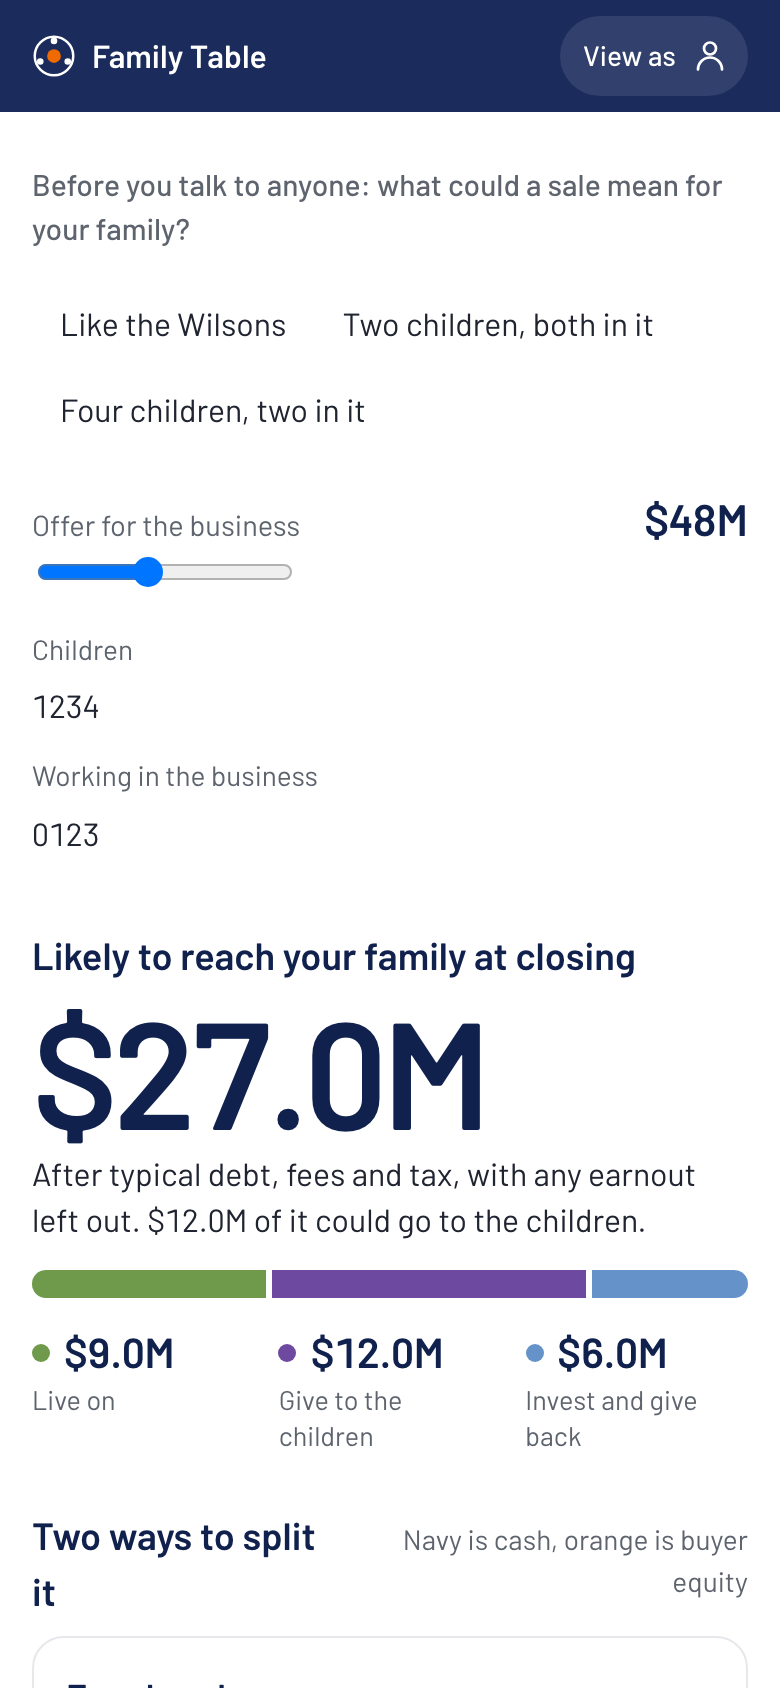
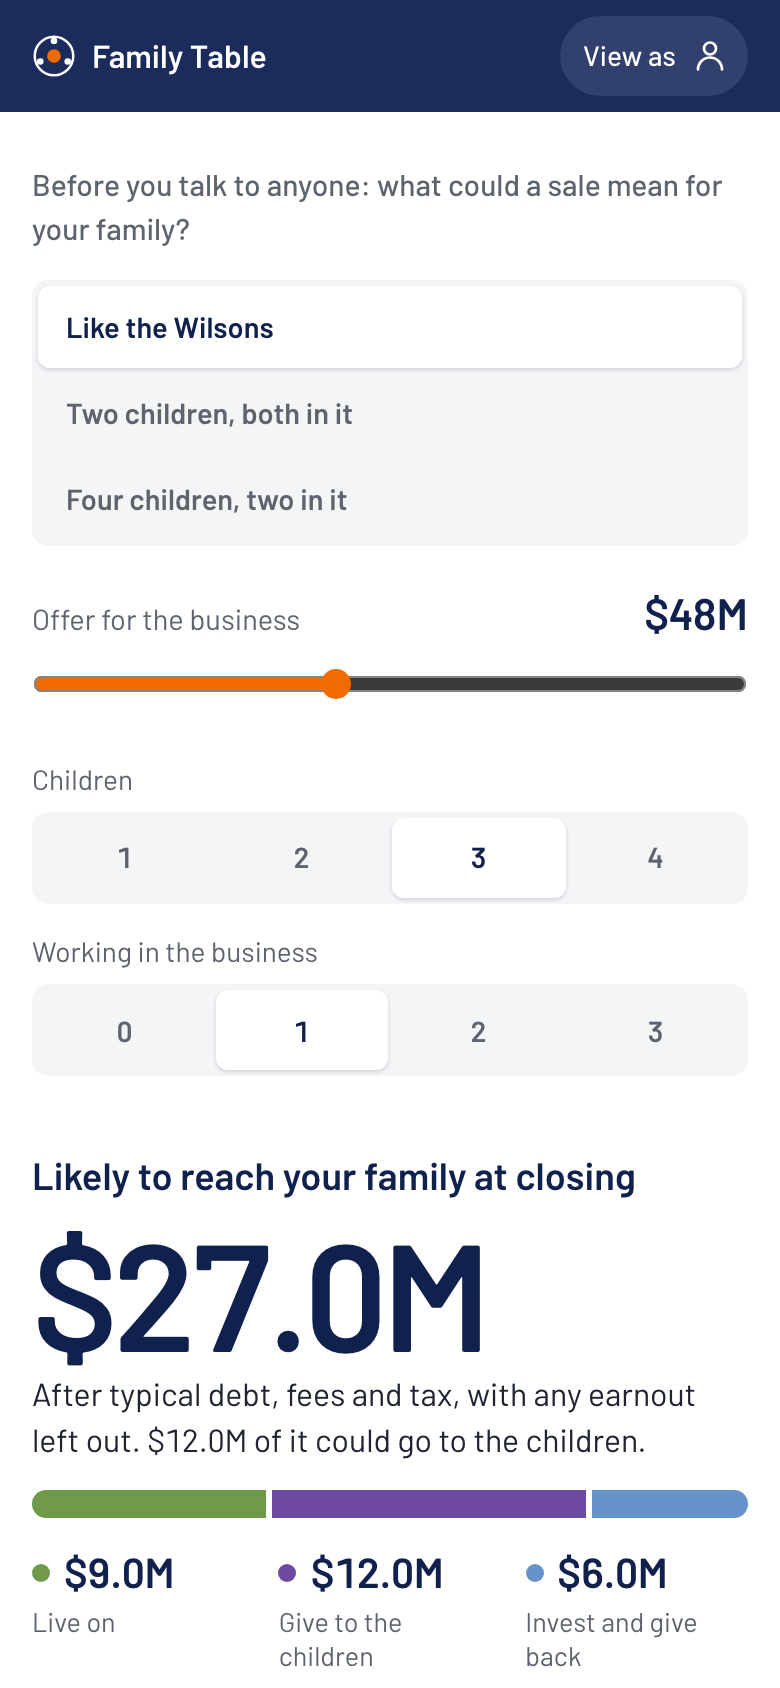
Slides: add preview, meeting guide and end-state slides; family slide shows the decision tree
Also fix presenter mode clipping on short screens.

diff --git a/slides/claude_deck/slides/family.html b/slides/claude_deck/slides/family.html
@@ -1,31 +1,32 @@
-<section id="family" data-transition="fade" style="background:#F5F6F8;color:#10214D;font-family:'Barlow', Arial, sans-serif;padding:112px 128px 160px;display:flex;flex-direction:column;gap:32px">
+<section id="family" data-transition="fade" style="background:#F5F6F8;color:#10214D;font-family:'Barlow', Arial, sans-serif;padding:104px 128px 160px;display:flex;flex-direction:column;gap:32px">
 <div style="display:flex;flex-direction:column;gap:12px">
 <p style="font-size:28px;font-weight:600;color:#B84F00">AI client and family experience</p>
-<h2 style="font-size:48px;font-weight:400;line-height:1.15;color:#10214D">Each person sees their own number, votes in private and asks Alex</h2>
+<h2 style="font-size:48px;font-weight:400;line-height:1.15;color:#10214D">Each person sees their own number, votes in private, then firms up the plan</h2>
 </div>
-<div style="display:flex;flex-direction:row;gap:64px;align-items:center">
-<div style="display:flex;flex-direction:row;gap:28px">
-<img src="/_blob/bb6ce9bce7e651bd16badfc4b975f215" alt="Sam's phone: his share, $4.25M, and three split options with every child's bar; his private vote is Balanced" style="width:262px;height:568px;object-fit:cover;border:8px solid #0B1533;border-radius:28px">
-<img src="/_blob/3bb084389be7f5aecbfa94e9515c5996" alt="Claire's phone: private check-in with detected themes and a switch to share each answer with Alex" style="width:262px;height:568px;object-fit:cover;border:8px solid #0B1533;border-radius:28px">
+<div style="display:flex;flex-direction:row;gap:48px;align-items:center">
+<div style="display:flex;flex-direction:row;gap:20px">
+<img src="/_blob/3bb084389be7f5aecbfa94e9515c5996" alt="Claire's private check-in: detected themes and a switch to share each answer with Alex" style="width:236px;height:512px;object-fit:cover;object-position:top;border:8px solid #0B1533;border-radius:28px">
+<img src="/_blob/bb6ce9bce7e651bd16badfc4b975f215" alt="Sam's vote: his share, $4.25M, under three split options with every child's bar; his private vote is Balanced" style="width:236px;height:512px;object-fit:cover;object-position:top;border:8px solid #0B1533;border-radius:28px">
+<img src="/_blob/c0961d67e258497c5b7696f8a09d1357" alt="Sam's decision tree: three choices narrow 12 possible plans to 1" style="width:236px;height:512px;object-fit:cover;object-position:top;border:8px solid #0B1533;border-radius:28px">
 </div>
-<div style="flex:1;display:flex;flex-direction:column;gap:30px">
-<div style="display:flex;flex-direction:column;gap:8px">
-<h3 style="font-size:32px;font-weight:600;color:#10214D">Their own number first</h3>
-<p style="font-size:26px;line-height:1.4;color:#4A5160">Sam sees his number under all three splits, then votes privately. The tally shows only at three votes, with no names.</p>
-<p style="font-size:24px;line-height:1.4;color:#5B3E8A"><b>AI:</b> none in the numbers; a fixed calculator does every split.</p>
-</div>
-<div style="display:flex;flex-direction:column;gap:8px">
-<h3 style="font-size:32px;font-weight:600;color:#10214D">Ask Alex</h3>
-<p style="font-size:26px;line-height:1.4;color:#4A5160">A question goes to Alex, not a chatbot. The reply comes with its numbers, and a call is one tap away.</p>
-<p style="font-size:24px;line-height:1.4;color:#5B3E8A"><b>AI:</b> drafts the reply from the calculator; Alex edits and approves before it sends.</p>
-</div>
+<div style="flex:1;display:flex;flex-direction:column;gap:26px">
 <div style="display:flex;flex-direction:column;gap:8px">
 <h3 style="font-size:32px;font-weight:600;color:#10214D">Private by default</h3>
-<p style="font-size:26px;line-height:1.4;color:#4A5160">Claire decides, answer by answer, what Alex can read. Her mother never sees it.</p>
-<p style="font-size:24px;line-height:1.4;color:#5B3E8A"><b>AI:</b> a language model detects themes, including an unspoken concern.</p>
+<p style="font-size:26px;line-height:1.4;color:#4A5160">Claire decides, answer by answer, what Alex can read.</p>
+<p style="font-size:24px;line-height:1.4;color:#5B3E8A"><b>AI:</b> a language model tags themes, including an unspoken concern.</p>
+</div>
+<div style="display:flex;flex-direction:column;gap:8px">
+<h3 style="font-size:32px;font-weight:600;color:#10214D">A private vote</h3>
+<p style="font-size:26px;line-height:1.4;color:#4A5160">Sam sees every child’s number under three splits. The tally shows only at three votes, with no names.</p>
+<p style="font-size:24px;line-height:1.4;color:#5B3E8A"><b>AI:</b> none; a fixed calculator does every split.</p>
+</div>
+<div style="display:flex;flex-direction:column;gap:8px">
+<h3 style="font-size:32px;font-weight:600;color:#10214D">A decision tree</h3>
+<p style="font-size:26px;line-height:1.4;color:#4A5160">Three choices turn 12 possible plans into one, so the family arrives on Nov 12 close to a decision.</p>
+<p style="font-size:24px;line-height:1.4;color:#5B3E8A"><b>AI:</b> none; each branch is recalculated by formula.</p>
 </div>
 </div>
 </div>
 <p style="position:absolute;left:128px;bottom:64px;width:1664px;font-size:24px;color:#6B717C">Source: Family Table prototype (mobile). The Wilson family and all figures are fictional; AI responses are simulated.</p>
-<aside>Two phone screens. Left: Sam, who lives in Austin and isn't in the business, sees his share under each of the three splits and casts a private, advisory vote. The family sees only a count, once three people have voted. Right: Claire writes that equal is the only fair split and that she has never told her mother; she decides whether Alex may read it. Both answer Margaret's friction: the family avoids direct conversations. And when anyone has a question, it goes to Alex, with an AI draft Alex approves first.</aside>
+<aside>Three phone screens, in the order the family uses them. Claire writes in private and decides what Alex may read. Sam sees his number under every split and votes privately; the family sees only a count, once three people have voted. Then the decision tree: does Ben’s equity count, is the gift paid at closing or through a trust, and where half the earnout goes. Twelve possible plans narrow to one. This answers Margaret’s friction: her family avoids direct conversations, so the app gives them a structured way to get close to a decision first.</aside>
 </section>

diff --git a/slides/claude_deck/slides/endstate.html b/slides/claude_deck/slides/endstate.html
@@ -1,0 +1,32 @@
+<section id="endstate" data-transition="fade" style="background:#F5F6F8;color:#10214D;font-family:'Barlow', Arial, sans-serif;padding:104px 128px 160px;display:flex;flex-direction:column;gap:32px">
+<div style="display:flex;flex-direction:column;gap:12px">
+<p style="font-size:28px;font-weight:600;color:#B84F00">End state: one year on</p>
+<h2 style="font-size:48px;font-weight:400;line-height:1.15;color:#10214D">Every dollar of the $27.0M now works in a PNC service</h2>
+</div>
+<div style="display:flex;flex-direction:row;gap:80px">
+<div style="width:440px;display:flex;flex-direction:column;gap:30px">
+<div style="display:flex;flex-direction:column;gap:4px"><p style="font-size:84px;font-weight:600;line-height:1;color:#B84F00">$27.0M</p><p style="font-size:24px;line-height:1.35;color:#4A5160">placed by the plan at closing</p></div>
+<div style="display:flex;flex-direction:column;gap:4px"><p style="font-size:84px;font-weight:600;line-height:1;color:#10214D">5 of 5</p><p style="font-size:24px;line-height:1.35;color:#4A5160">family members work with PNC, up from 3</p></div>
+<div style="display:flex;flex-direction:column;gap:4px"><p style="font-size:84px;font-weight:600;line-height:1;color:#10214D">6</p><p style="font-size:24px;line-height:1.35;color:#4A5160">PNC services hold the money</p></div>
+</div>
+<div style="flex:1;display:flex;flex-direction:column;gap:22px">
+<div style="display:flex;flex-direction:column;gap:10px">
+<div style="display:flex;flex-direction:row;justify-content:space-between"><p style="font-size:26px;font-weight:600;color:#10214D">Live on</p><p style="font-size:26px;font-weight:600;color:#10214D">$9.0M</p></div>
+<div style="display:flex;flex-direction:row;gap:6px"><div style="flex:7.5;height:22px;background:#6F9A4B;opacity:1.00;border-radius:6px"></div><div style="flex:1.5;height:22px;background:#6F9A4B;opacity:0.55;border-radius:6px"></div></div>
+<div style="display:flex;flex-direction:row;justify-content:space-between"><p style="font-size:23px;color:#4A5160">Income portfolio</p><p style="font-size:23px;font-weight:600;color:#10214D">$7.5M</p></div><div style="display:flex;flex-direction:row;justify-content:space-between"><p style="font-size:23px;color:#4A5160">Cash and a credit line</p><p style="font-size:23px;font-weight:600;color:#10214D">$1.5M</p></div>
+</div>
+<div style="display:flex;flex-direction:column;gap:10px">
+<div style="display:flex;flex-direction:row;justify-content:space-between"><p style="font-size:26px;font-weight:600;color:#10214D">Give to the children</p><p style="font-size:26px;font-weight:600;color:#10214D">$12.0M</p></div>
+<div style="display:flex;flex-direction:row;gap:6px"><div style="flex:8.5;height:22px;background:#6D4AA0;opacity:1.00;border-radius:6px"></div><div style="flex:3.5;height:22px;background:#6D4AA0;opacity:0.55;border-radius:6px"></div></div>
+<div style="display:flex;flex-direction:row;justify-content:space-between"><p style="font-size:23px;color:#4A5160">Next-gen accounts, Claire and Sam</p><p style="font-size:23px;font-weight:600;color:#10214D">$8.5M</p></div><div style="display:flex;flex-direction:row;justify-content:space-between"><p style="font-size:23px;color:#4A5160">Ben’s account and equity plan</p><p style="font-size:23px;font-weight:600;color:#10214D">$3.5M</p></div>
+</div>
+<div style="display:flex;flex-direction:column;gap:10px">
+<div style="display:flex;flex-direction:row;justify-content:space-between"><p style="font-size:26px;font-weight:600;color:#10214D">Invest and give back</p><p style="font-size:26px;font-weight:600;color:#10214D">$6.0M</p></div>
+<div style="display:flex;flex-direction:row;gap:6px"><div style="flex:4.0;height:22px;background:#6593C9;opacity:1.00;border-radius:6px"></div><div style="flex:2.0;height:22px;background:#6593C9;opacity:0.55;border-radius:6px"></div></div>
+<div style="display:flex;flex-direction:row;justify-content:space-between"><p style="font-size:23px;color:#4A5160">Long-term portfolio</p><p style="font-size:23px;font-weight:600;color:#10214D">$4.0M</p></div><div style="display:flex;flex-direction:row;justify-content:space-between"><p style="font-size:23px;color:#4A5160">Wilson family foundation</p><p style="font-size:23px;font-weight:600;color:#10214D">$2.0M</p></div>
+</div>
+</div>
+</div>
+<p style="position:absolute;left:128px;bottom:64px;width:1664px;font-size:24px;color:#6B717C">Fictional outcome derived from the prototype: Balanced split, $8.5M to Claire and Sam. About $216K a year in fees at an illustrative 0.8% blended rate.</p>
+<aside>The payoff slide. A year after closing, the money isn’t just retained; each bucket has a job. Live on sits in an income portfolio and a credit line. The children’s gift sits in next-gen accounts that Claire and Sam opened after Alex’s introduction, and in Ben’s account with planning for his NorthPeak stock. Invest and give back sits in a long-term portfolio and the Wilson family foundation. Two relationships became five. At an illustrative 0.8% blended fee, that’s about $216K a year, before the next transfer.</aside>
+</section>

diff --git a/slides/claude_deck/slides/preview.html b/slides/claude_deck/slides/preview.html
@@ -1,0 +1,26 @@
+<section id="preview" data-transition="fade" style="background:#F5F6F8;color:#10214D;font-family:'Barlow', Arial, sans-serif;padding:104px 128px 160px;display:flex;flex-direction:column;gap:32px">
+<div style="display:flex;flex-direction:column;gap:12px">
+<p style="font-size:28px;font-weight:600;color:#B84F00">Before PNC, then onboarding</p>
+<h2 style="font-size:48px;font-weight:400;line-height:1.15;color:#10214D">Before talking to anyone, a family sees what a sale could mean</h2>
+</div>
+<div style="display:flex;flex-direction:row;gap:64px;align-items:center">
+<div style="display:flex;flex-direction:row;gap:28px">
+<img src="/_blob/d0c08c634393e7bbfcbb1d47eca4c869" alt="Scenario preview: a family with four children, two in the business, and an $80M offer would likely keep $45.0M at closing, split into live on, give and invest" style="width:262px;height:568px;object-fit:cover;object-position:top;border:8px solid #0B1533;border-radius:28px">
+<img src="/_blob/9083f795f8010eba4bf9bc897b49f1c7" alt="Margaret's setup: she picks what fair means to her, with each child's number, and how much she and Tom spend a year, which shows the $9.0M lasts 30 years" style="width:262px;height:568px;object-fit:cover;object-position:top;border:8px solid #0B1533;border-radius:28px">
+</div>
+<div style="flex:1;display:flex;flex-direction:column;gap:30px">
+<div style="display:flex;flex-direction:column;gap:8px">
+<h3 style="font-size:32px;font-weight:600;color:#10214D">A preview anyone can try</h3>
+<p style="font-size:26px;line-height:1.4;color:#4A5160">Pick a family like yours or set the offer and children. See the likely amount at closing and two ways to split it.</p>
+<p style="font-size:24px;line-height:1.4;color:#5B3E8A"><b>AI:</b> none in the numbers; fixed ratios from a deal like the Wilsons’.</p>
+</div>
+<div style="display:flex;flex-direction:column;gap:8px">
+<h3 style="font-size:32px;font-weight:600;color:#10214D">Clear inputs, sharper goals</h3>
+<p style="font-size:26px;line-height:1.4;color:#4A5160">PNC fills in the facts it already holds. Margaret picks three goals in order and sharpens each one: what fair means, what she spends, what comes next.</p>
+<p style="font-size:24px;line-height:1.4;color:#5B3E8A"><b>AI:</b> her goals feed the brief Alex approves.</p>
+</div>
+</div>
+</div>
+<p style="position:absolute;left:128px;bottom:64px;width:1664px;font-size:24px;color:#6B717C">Source: Family Table prototype (mobile). Preview figures are illustrative ranges; a PNC tax specialist confirms real ones.</p>
+<aside>Two new moments at the front of the journey. Left: before a family ever talks to PNC, the preview shows what a sale could mean for a family like theirs, with numbers, not a sales pitch. Right: once Margaret is onboarded, PNC has already filled in the facts. She picks her goals and sharpens them. Fair means Balanced to her, and $300K a year means her $9.0M lasts 30 years. Alex sees those goals, so the meeting starts from what she actually wants.</aside>
+</section>

diff --git a/slides/claude_deck/slides/guide.html b/slides/claude_deck/slides/guide.html
@@ -1,0 +1,22 @@
+<section id="guide" data-transition="fade" style="background:#F5F6F8;color:#10214D;font-family:'Barlow', Arial, sans-serif;padding:104px 128px 160px;display:flex;flex-direction:column;gap:32px">
+<div style="display:flex;flex-direction:column;gap:12px">
+<p style="font-size:28px;font-weight:600;color:#B84F00">AI advisor tools</p>
+<h2 style="font-size:48px;font-weight:400;line-height:1.15;color:#10214D">Alex walks in with a 90-minute guide and screens to present</h2>
+</div>
+<div style="display:flex;flex-direction:row;gap:48px">
+<div style="flex:1;display:flex;flex-direction:column;gap:14px">
+<img src="/_blob/d6c548f7a8539ba27f1200964621a6ac" alt="Meeting guide: 90 minutes in five segments, each with what to say, show and ask, and Margaret's goals" style="width:808px;height:380px;object-fit:cover;object-position:top;border:1px solid #DDE0E4;border-radius:8px">
+<h3 style="font-size:32px;font-weight:600;color:#10214D">A run of show, not a dashboard</h3>
+<p style="font-size:26px;line-height:1.4;color:#4A5160">Five segments, each with what to say, show and ask, plus guardrails and likely questions.</p>
+<p style="font-size:24px;line-height:1.4;color:#5B3E8A"><b>AI:</b> drafts the guide from the approved brief; Alex edits it.</p>
+</div>
+<div style="flex:1;display:flex;flex-direction:column;gap:14px">
+<img src="/_blob/16391ee3883e4cc10713eb44349addba" alt="Presenter mode: the widest gap, 1.00 on equal shares, shown as a family range with no names" style="width:808px;height:380px;object-fit:cover;object-position:top;border:1px solid #DDE0E4;border-radius:8px">
+<h3 style="font-size:32px;font-weight:600;color:#10214D">Screens built for the room</h3>
+<p style="font-size:26px;line-height:1.4;color:#4A5160">Five presenting screens from the family’s numbers, never anyone’s words.</p>
+<p style="font-size:24px;line-height:1.4;color:#5B3E8A"><b>Human:</b> a Hawthorn facilitator runs the fairness discussion.</p>
+</div>
+</div>
+<p style="position:absolute;left:128px;bottom:64px;width:1664px;font-size:24px;color:#6B717C">Source: Family Table prototype. Guide content is drafted by a language model in production; simulated here.</p>
+<aside>This answers Alex’s friction directly: PNC capabilities sit across business units, and tension surfaces after decisions are made. Left: the AI turns the approved brief into a 90-minute run of show for Nov 12. It opens with common ground, then fairness, the decision tree and next steps. Each segment says what to say, what to show and what to ask, with guardrails such as never attributing a view to a person. Right: presenter mode, five screens for the room. The widest gap is shown as a family range, not anyone’s answer.</aside>
+</section>

diff --git a/video/src/slide_shots_v2.js b/video/src/slide_shots_v2.js
@@ -1,0 +1,32 @@
+// node slide_shots_v2.js [base] -> slide-ready shots of the round-7 screens: phone shots (390x844 @2x) and
+// slide-ratio desktop crops (1100x518 @2x) of the meeting guide and the presenter.
+const { chromium } = require("playwright-core");
+const path = require("path");
+const BIN = path.join(process.env.HOME, "Library/Caches/ms-playwright/chromium_headless_shell-1234/chrome-headless-shell-mac-arm64/chrome-headless-shell");
+const BASE = process.argv[2] || "http://localhost:4311/prototype/";
+const OUT = path.join(__dirname, "../../prototype/shots");
+const PHONE = [
+  ["preview", "slide_preview_m", { pv: { preset: "mixed", value: 80, kids: 4, inBiz: 2 } }, null],
+  ["me/margaret/setup", "slide_setup_m", { fairMeans: "balanced" }, ".refine"],
+  ["me/sam/decide", "slide_decide_m", { votes: { sam: "balanced" }, tree: { sam: { count: "balanced", pay: "trust" } } }, null],
+];
+(async () => {
+  const b = await chromium.launch({ executablePath: BIN, args: ["--hide-scrollbars"] });
+  const p = await b.newPage({ viewport: { width: 390, height: 844 }, deviceScaleFactor: 2 });
+  await p.emulateMedia({ reducedMotion: "reduce" });
+  await p.goto(BASE + "?reset#/", { waitUntil: "networkidle" });
+  for (const [r, n, st, scrollTo] of PHONE) {
+    await p.evaluate(([r, st]) => { window.FT.reset(); window.FT.set(st); location.hash = "#/" + r; }, [r, st]); await p.waitForTimeout(400);
+    if (scrollTo) await p.evaluate(s => { const el = document.querySelector(s); window.scrollTo(0, el.getBoundingClientRect().top + scrollY - 70); }, scrollTo);
+    await p.waitForTimeout(200);
+    await p.screenshot({ path: path.join(OUT, n + ".png") });
+  }
+  const d = await b.newPage({ viewport: { width: 1100, height: 518 }, deviceScaleFactor: 2 });
+  await d.emulateMedia({ reducedMotion: "reduce" });
+  await d.goto(BASE + "?reset#/", { waitUntil: "networkidle" });
+  await d.evaluate(() => { window.FT.set({ approved: true, fairMeans: "balanced" }); location.hash = "#/advisor/guide"; }); await d.waitForTimeout(400);
+  await d.screenshot({ path: path.join(OUT, "slide_guide.png") });
+  await d.click('[data-act="present-open"]'); await d.click('[data-act="present-nav"][data-id="1"]'); await d.waitForTimeout(400);
+  await d.screenshot({ path: path.join(OUT, "slide_present.png") });
+  await b.close();
+})();

diff --git a/prototype/styles.css b/prototype/styles.css
@@ -676,10 +676,10 @@ body.touring main { padding-bottom: 230px; }
 .pz-top .brand { margin-right: auto; }
 .pz-c { font-size: 14px; color: rgba(255,255,255,.7); }
 .present .x { width: 40px; height: 40px; border-radius: 50%; background: rgba(255,255,255,.12); display: grid; place-items: center; color: #fff; }
-.pz-slide { flex: 1; max-width: 1100px; width: 100%; margin: 0 auto; display: flex; flex-direction: column; justify-content: center; padding: 20px 0; overflow-y: auto; }
-.pz-slide h2 { font-size: clamp(28px, 5vw, 56px); font-weight: 500; line-height: 1.1; max-width: 20ch; }
-.pz-slide p { font-size: clamp(17px, 2vw, 24px); color: rgba(255,255,255,.85); margin-top: 16px; max-width: 40ch; }
-.pz-big { font-size: clamp(80px, 16vw, 180px); font-weight: 600; line-height: 1; letter-spacing: -0.03em; margin-top: 18px; }
+.pz-slide { flex: 1; min-height: 0; max-width: 1100px; width: 100%; margin: 0 auto; display: flex; flex-direction: column; justify-content: safe center; padding: 12px 0; overflow-y: auto; }
+.pz-slide h2 { font-size: clamp(26px, min(5vw, 7vh), 56px); font-weight: 500; line-height: 1.1; max-width: 26ch; }
+.pz-slide p { font-size: clamp(16px, min(2vw, 3.6vh), 24px); color: rgba(255,255,255,.85); margin-top: 16px; max-width: 40ch; }
+.pz-big { font-size: clamp(64px, min(16vw, 24vh), 180px); font-weight: 600; line-height: 1; letter-spacing: -0.03em; margin-top: 18px; }
 .pz-big.orange { color: #F7A766; }
 .pz-range { position: relative; height: 14px; border-radius: 7px; background: rgba(255,255,255,.14); margin-top: 28px; max-width: 640px; }
 .pz-range i { position: absolute; inset: 0; border-radius: 7px; background: #F7A766; }

diff --git a/video/src/slides_check.js b/video/src/slides_check.js
@@ -13,6 +13,11 @@ const BLOBS = {
   "3bb084389be7f5aecbfa94e9515c5996": "me_claire_checkin_m.png",
   "c23687b87853216f7c4e53d773bcad8a": "slide_advisor_home.png",
   "10300e4c12ca713e3ec613b333dbd32b": "slide_advisor_align.png",
+  "d0c08c634393e7bbfcbb1d47eca4c869": "slide_preview_m.png",
+  "9083f795f8010eba4bf9bc897b49f1c7": "slide_setup_m.png",
+  "c0961d67e258497c5b7696f8a09d1357": "slide_decide_m.png",
+  "d6c548f7a8539ba27f1200964621a6ac": "slide_guide.png",
+  "16391ee3883e4cc10713eb44349addba": "slide_present.png",
 };
 const deck = JSON.parse(fs.readFileSync(path.join(root, "project/deck.json"), "utf8"));
 const CSS = `*,:before,:after{box-sizing:border-box;margin:0;padding:0;border:0 solid}

diff --git a/PROJECT_CONTEXT.md b/PROJECT_CONTEXT.md
@@ -253,16 +253,21 @@ A gap of 0.75 or more recommends a facilitator.
 - https://rzrizaldy.github.io/pnc_csl_2026/ (GitHub Pages, legacy build from `main` /)
 - Repo: `rzrizaldy/pnc_csl_2026` (public)
 
-**Slides:** Claude Slides artifact https://claude.ai/artifact/B7bV9cQnWU4FCvbQWLHYf2. It's private until Rz shares it. Nine slides:
+**Slides:** Claude Slides artifact https://claude.ai/artifact/B7bV9cQnWU4FCvbQWLHYf2. It's private until Rz shares it. Twelve slides (drop what the final 10-slide team deck doesn't need):
 1. cover
-2. sides
-3. journey
-4. blueprint
-5. family
-6. advisor
-7. sauce
-8. architecture
-9. privacy
+2. sides (the two personas)
+3. journey (two lanes)
+4. blueprint (service blueprint)
+5. preview (before PNC, then onboarding goals)
+6. family (check-in, private vote, decision tree)
+7. advisor (signal, AI brief)
+8. guide (meeting guide and presenter mode)
+9. endstate (the $27.0M across six PNC services)
+10. sauce
+11. architecture
+12. privacy (backup)
+
+Slide images are artifact assets; `video/src/slide_shots_v2.js` and `slide_crops.js` regenerate them, and `slides_check.js` maps them for local render checks.
 
 ## 8. Design system and voice
 
